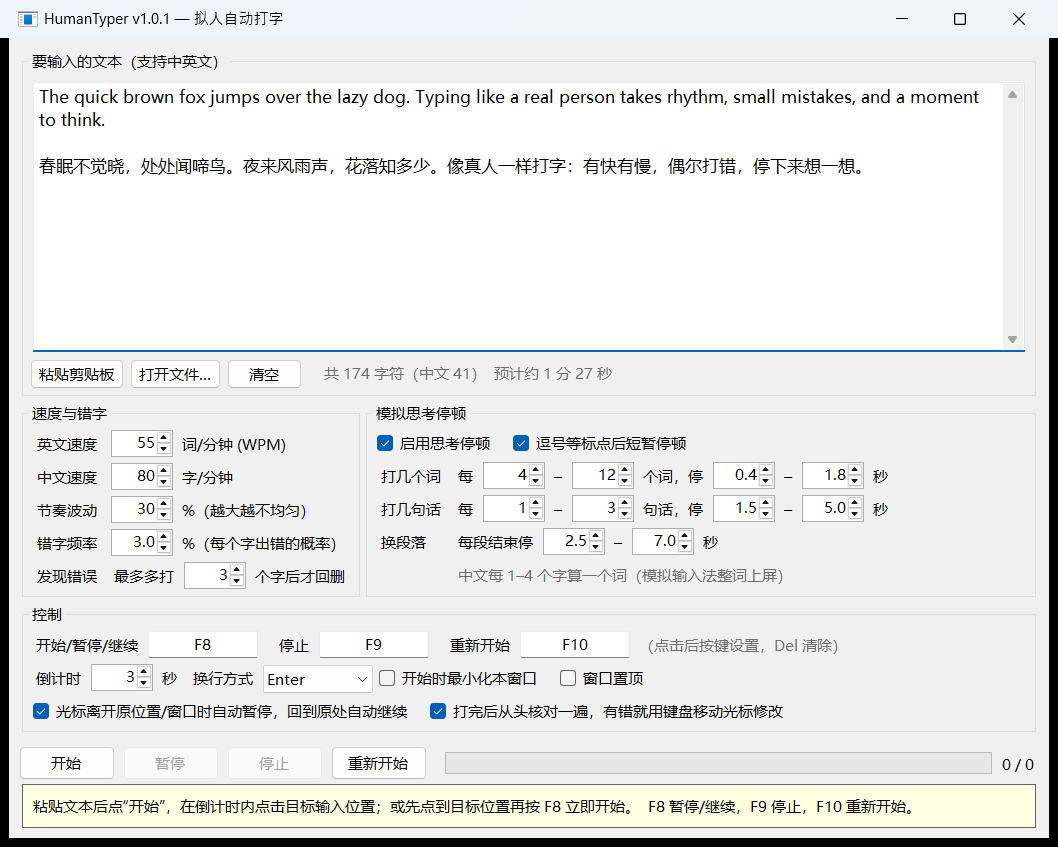
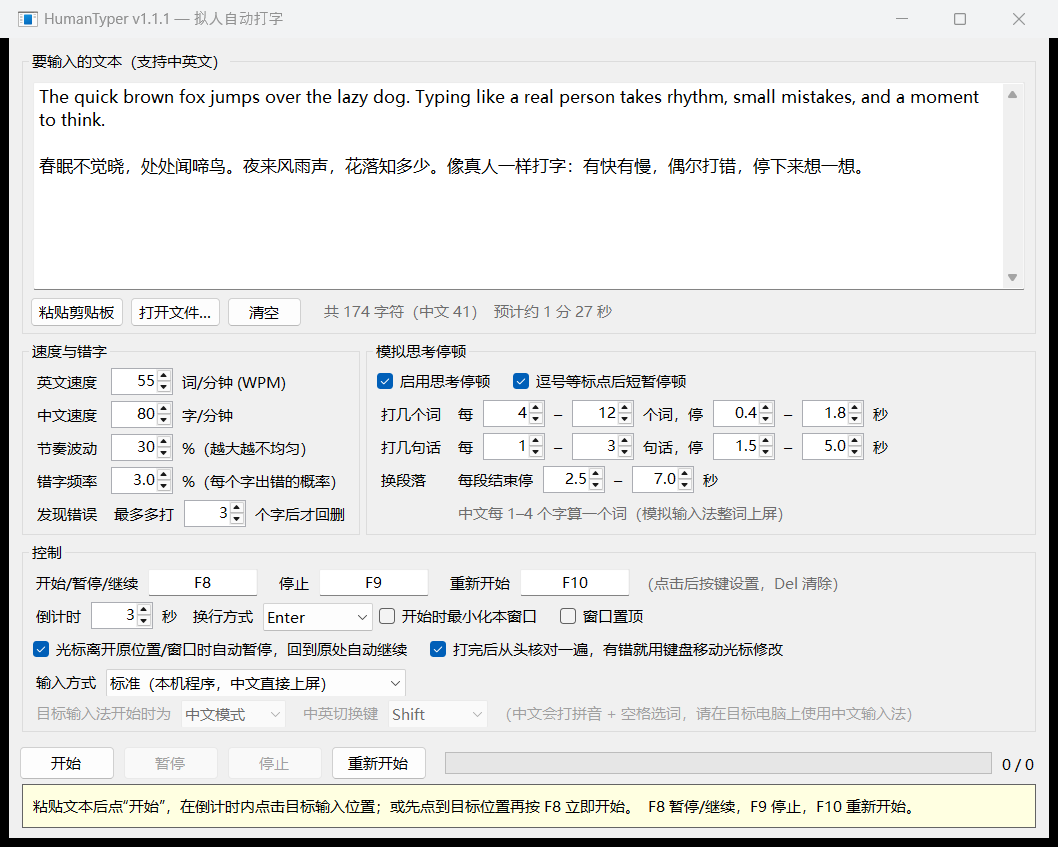
Keyboard mode for remote desktops: scan codes, Interception driver, pinyin
- New input modes: standard (Unicode), keyboard scan codes, and an optional
  driver-level virtual keyboard via the Interception driver. Key modes send
  real key presses, so typing works inside ToDesk, Sunlogin, RDP, VNC and VMs.
- Chinese in key modes is typed as pinyin through the target's IME and
  committed with Space; the IME is switched between Chinese and English
  (Shift or Ctrl+Space) as needed, and Chinese punctuation uses the keys
  that produce it in Chinese mode.
- Built-in pinyin table (26k characters + polyphone phrases) generated from
  mozillazg/pinyin-data and phrase-pinyin-data (MIT) by tools/PinyinGen.
- Proofreading is faster, retypes missing Chinese as whole words, and in key
  modes leaves IME homophone choices alone.
- README, screenshot and third-party notices updated; version 1.1.

diff --git a/src/Proofreader.cs b/src/Proofreader.cs
@@ -49,13 +49,13 @@ namespace HumanTyper
             var want = new List<string>(_u.Count);
             foreach (var x in _u) want.Add(NormUnit(x));
 
-            int totalFixed = 0;
-            for (int pass = 1; pass <= 3; pass++)
+            int totalFixed = 0, skippedCn = 0;
+            for (int pass = 1; pass <= 2; pass++)
             {
                 Report(EngineState.Thinking, pass == 1 ? "正在从头核对一遍…" : "再核对一遍…");
-                Wait(Rand(700, 1500));
+                Wait(Rand(200, 450));
                 Gate();
-                SleepPlain(250);   // let the target finish processing our keystrokes
+                SleepPlain(120);   // let the target finish processing our keystrokes
 
                 if (!TryReadTextBeforeCaret(out string before))
                 {
@@ -85,9 +85,19 @@ namespace HumanTyper
                     _proofMsg = "与原文差异过大（光标可能不在文末），已跳过自动修正";
                     return;
                 }
+                if (_kb.IsKeyMode)
+                {
+                    // Typing through an IME: a Chinese character swapped for another one is just the
+                    // IME picking a homophone. Let it be — only fix missing/extra text and non-Chinese.
+                    int before0 = hunks.Count;
+                    hunks.RemoveAll(h => h.Insert.Count > 0 && h.AEnd - h.AStart == h.Insert.Count &&
+                                         h.Insert.TrueForAll(IsCjk) && w.GetRange(h.AStart, h.AEnd - h.AStart).TrueForAll(IsCjk));
+                    if (pass == 1) skippedCn = before0 - hunks.Count;
+                }
                 if (hunks.Count == 0)
                 {
-                    _proofMsg = totalFixed > 0 ? $"核对完成，已修正 {totalFixed} 处" : "核对完成，没有发现错误";
+                    string skip = skippedCn > 0 ? $"（{skippedCn} 处中文选词差异未处理）" : "";
+                    _proofMsg = (totalFixed > 0 ? $"核对完成，已修正 {totalFixed} 处" : "核对完成，没有发现错误") + skip;
                     return;
                 }
 
@@ -100,18 +110,13 @@ namespace HumanTyper
                 }
 
                 Report(EngineState.Running, $"发现 {hunks.Count} 处错误，正在修改…");
-                if (_kb.IsKeyMode)
-                {
-                    // Retype Chinese fixes as whole words (better IME guesses), and if the same spot
-                    // is still wrong on a later pass, pick the 2nd / 3rd candidate instead of the 1st.
-                    ExpandToWords(hunks, w, want);
-                    _commitKey = pass == 1 ? " " : pass.ToString();
-                }
-                try { ApplyHunks(hunks, w.Count); }
-                finally { _commitKey = " "; }
+                // Missing Chinese gets retyped as a whole word so the IME has context.
+                if (_kb.IsKeyMode) ExpandToWords(hunks, w, want);
+                _fixing = true;
+                try { ApplyHunks(hunks, w.Count); } finally { _fixing = false; }
                 totalFixed += hunks.Count;
             }
-            _proofMsg = $"已修正 {totalFixed} 处，但仍有差异，请人工检查";
+            _proofMsg = $"已修正 {totalFixed} 处" + (skippedCn > 0 ? $"（{skippedCn} 处中文选词差异未处理）" : "");
         }
 
         /// <summary>
@@ -173,14 +178,14 @@ namespace HumanTyper
             for (int i = hunks.Count - 1; i >= 0; i--)
             {
                 var h = hunks[i];
-                Wait(Rand(250, 700));                    // spot it
+                Wait(Rand(80, 200));                     // spot it
                 MoveCaret(ref caret, h.AEnd);
-                Wait(Rand(150, 400));
+                Wait(Rand(50, 120));
                 for (int k = h.AEnd; k > h.AStart; k--)
                 {
                     Key("\b");
                     caret--;
-                    Wait(Math.Max(45, LatinBaseMs * 0.6 * Jitter()));
+                    Wait(Math.Max(30, LatinBaseMs * 0.4 * Jitter()));
                 }
                 for (int k = 0; k < h.Insert.Count;)
                 {
@@ -199,14 +204,14 @@ namespace HumanTyper
                             continue;
                         }
                     }
-                    Wait(IsCjk(s) ? CjkBaseMs * 0.7 * Jitter() : LatinBaseMs * Jitter());
+                    Wait(IsCjk(s) ? CjkBaseMs * 0.5 * Jitter() : LatinBaseMs * 0.6 * Jitter());
                     Key(s);
                     caret++;
                     k++;
                 }
                 newEnd += h.Insert.Count - (h.AEnd - h.AStart);
             }
-            Wait(Rand(200, 500));
+            Wait(Rand(60, 150));
             MoveCaret(ref caret, newEnd);                // back to where we stopped typing
         }
 
@@ -220,7 +225,7 @@ namespace HumanTyper
                 caret += left ? -1 : 1;
                 _unsampled += left ? -1 : 1;
                 _lastKeyMs = Now;
-                Wait(Rand(25, 70));
+                Wait(Rand(8, 20));
             }
         }
 

diff --git a/src/TypingEngine.cs b/src/TypingEngine.cs
@@ -324,6 +324,7 @@ namespace HumanTyper
         private KeyboardOut _kb;
         private bool _imeChinese;    // what we believe the target's IME mode is (Chinese / English)
         private string _commitKey = " ";
+        private bool _fixing;        // proofreading fixes are typed faster
 
         /// <summary>
         /// Types Chinese the way a person does on a real keyboard: pinyin letters into the IME,
@@ -350,7 +351,7 @@ namespace HumanTyper
             string py = Pinyin.Join(syllables);
             SetIme(true);
             int unsampledBefore = _unsampled;
-            double perLetter = chars * CjkBaseMs * 0.8 / Math.Max(1, py.Length);
+            double perLetter = chars * CjkBaseMs * (_fixing ? 0.45 : 0.8) / Math.Max(1, py.Length);
             for (int k = 0; k < py.Length; k++)
             {
                 string letter = py[k].ToString();
@@ -366,7 +367,7 @@ namespace HumanTyper
                 }
                 KeyRaw(letter);
             }
-            Wait(Rand(150, 550));     // look at the candidates
+            Wait(_fixing ? Rand(60, 160) : Rand(150, 550));     // look at the candidates
             KeyRaw(_commitKey);       // Space = top candidate; "2"/"3" = another one
             _unsampled = unsampledBefore + chars;
         }

diff --git a/src/MainForm.cs b/src/MainForm.cs
@@ -192,7 +192,7 @@ namespace HumanTyper
                 "键盘扫描码（远程桌面 / 远控软件 / 虚拟机）",
                 "驱动级虚拟键盘（需安装 Interception 驱动）",
             });
-            _cboImeState = new ComboBox { DropDownStyle = ComboBoxStyle.DropDownList, Width = 80, Margin = new Padding(3, 4, 3, 3) };
+            _cboImeState = new ComboBox { DropDownStyle = ComboBoxStyle.DropDownList, Width = 105, Margin = new Padding(3, 4, 3, 3) };
             _cboImeState.Items.AddRange(new object[] { "中文模式", "英文模式" });
             _cboImeToggle = new ComboBox { DropDownStyle = ComboBoxStyle.DropDownList, Width = 100, Margin = new Padding(3, 4, 3, 3) };
             _cboImeToggle.Items.AddRange(new object[] { "Shift", "Ctrl+Space" });

diff --git a/THIRD-PARTY-NOTICES.md b/THIRD-PARTY-NOTICES.md
@@ -1,0 +1,63 @@
+# Third-party notices
+
+HumanTyper includes data derived from the following projects.
+
+## pinyin-data
+
+https://github.com/mozillazg/pinyin-data — used to build `src/Resources/pinyin.dat.gz`.
+
+```
+The MIT License (MIT)
+
+Copyright (c) 2016 mozillazg
+
+Permission is hereby granted, free of charge, to any person obtaining a copy
+of this software and associated documentation files (the "Software"), to deal
+in the Software without restriction, including without limitation the rights
+to use, copy, modify, merge, publish, distribute, sublicense, and/or sell
+copies of the Software, and to permit persons to whom the Software is
+furnished to do so, subject to the following conditions:
+
+The above copyright notice and this permission notice shall be included in all
+copies or substantial portions of the Software.
+
+THE SOFTWARE IS PROVIDED "AS IS", WITHOUT WARRANTY OF ANY KIND, EXPRESS OR
+IMPLIED, INCLUDING BUT NOT LIMITED TO THE WARRANTIES OF MERCHANTABILITY,
+FITNESS FOR A PARTICULAR PURPOSE AND NONINFRINGEMENT. IN NO EVENT SHALL THE
+AUTHORS OR COPYRIGHT HOLDERS BE LIABLE FOR ANY CLAIM, DAMAGES OR OTHER
+LIABILITY, WHETHER IN AN ACTION OF CONTRACT, TORT OR OTHERWISE, ARISING FROM,
+OUT OF OR IN CONNECTION WITH THE SOFTWARE OR THE USE OR OTHER DEALINGS IN THE
+SOFTWARE.
+```
+
+## phrase-pinyin-data
+
+https://github.com/mozillazg/phrase-pinyin-data — used to build `src/Resources/pinyin.dat.gz`.
+
+```
+MIT License
+
+Copyright (c) 2017 mozillazg
+
+Permission is hereby granted, free of charge, to any person obtaining a copy
+of this software and associated documentation files (the "Software"), to deal
+in the Software without restriction, including without limitation the rights
+to use, copy, modify, merge, publish, distribute, sublicense, and/or sell
+copies of the Software, and to permit persons to whom the Software is
+furnished to do so, subject to the following conditions:
+
+The above copyright notice and this permission notice shall be included in all
+copies or substantial portions of the Software.
+
+THE SOFTWARE IS PROVIDED "AS IS", WITHOUT WARRANTY OF ANY KIND, EXPRESS OR
+IMPLIED, INCLUDING BUT NOT LIMITED TO THE WARRANTIES OF MERCHANTABILITY,
+FITNESS FOR A PARTICULAR PURPOSE AND NONINFRINGEMENT. IN NO EVENT SHALL THE
+AUTHORS OR COPYRIGHT HOLDERS BE LIABLE FOR ANY CLAIM, DAMAGES OR OTHER
+LIABILITY, WHETHER IN AN ACTION OF CONTRACT, TORT OR OTHERWISE, ARISING FROM,
+OUT OF OR IN CONNECTION WITH THE SOFTWARE OR THE USE OR OTHER DEALINGS IN THE
+SOFTWARE.
+```
+
+## Interception (not bundled)
+
+The optional driver-level mode loads `interception.dll` from https://github.com/oblitum/Interception if the user installs it. Interception is not distributed with HumanTyper; see its own license terms (free for non-commercial use).
